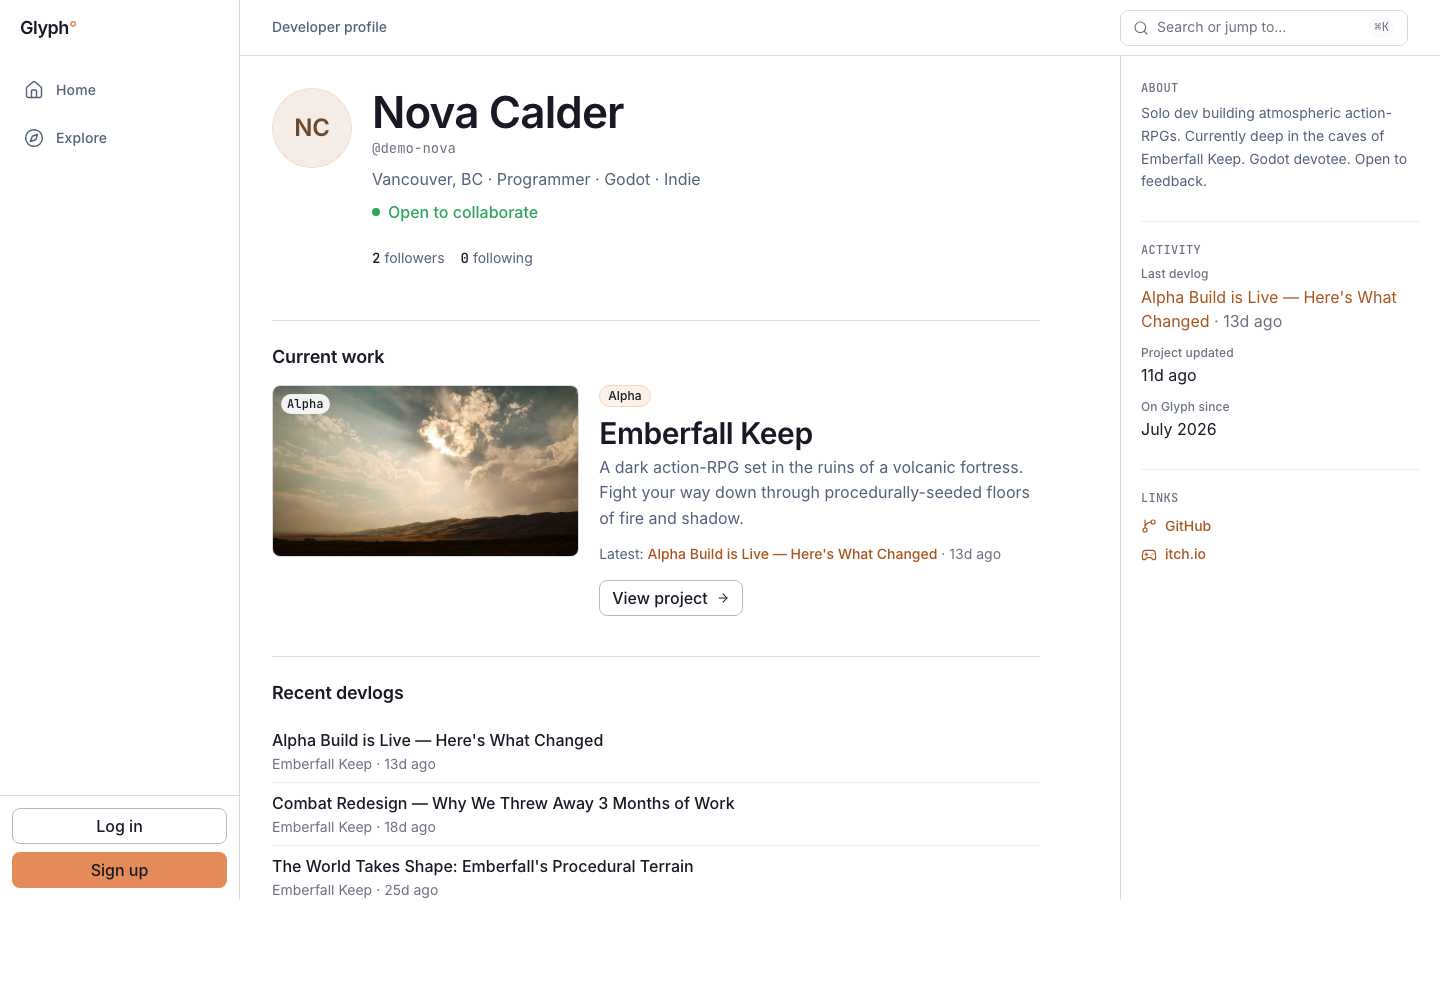
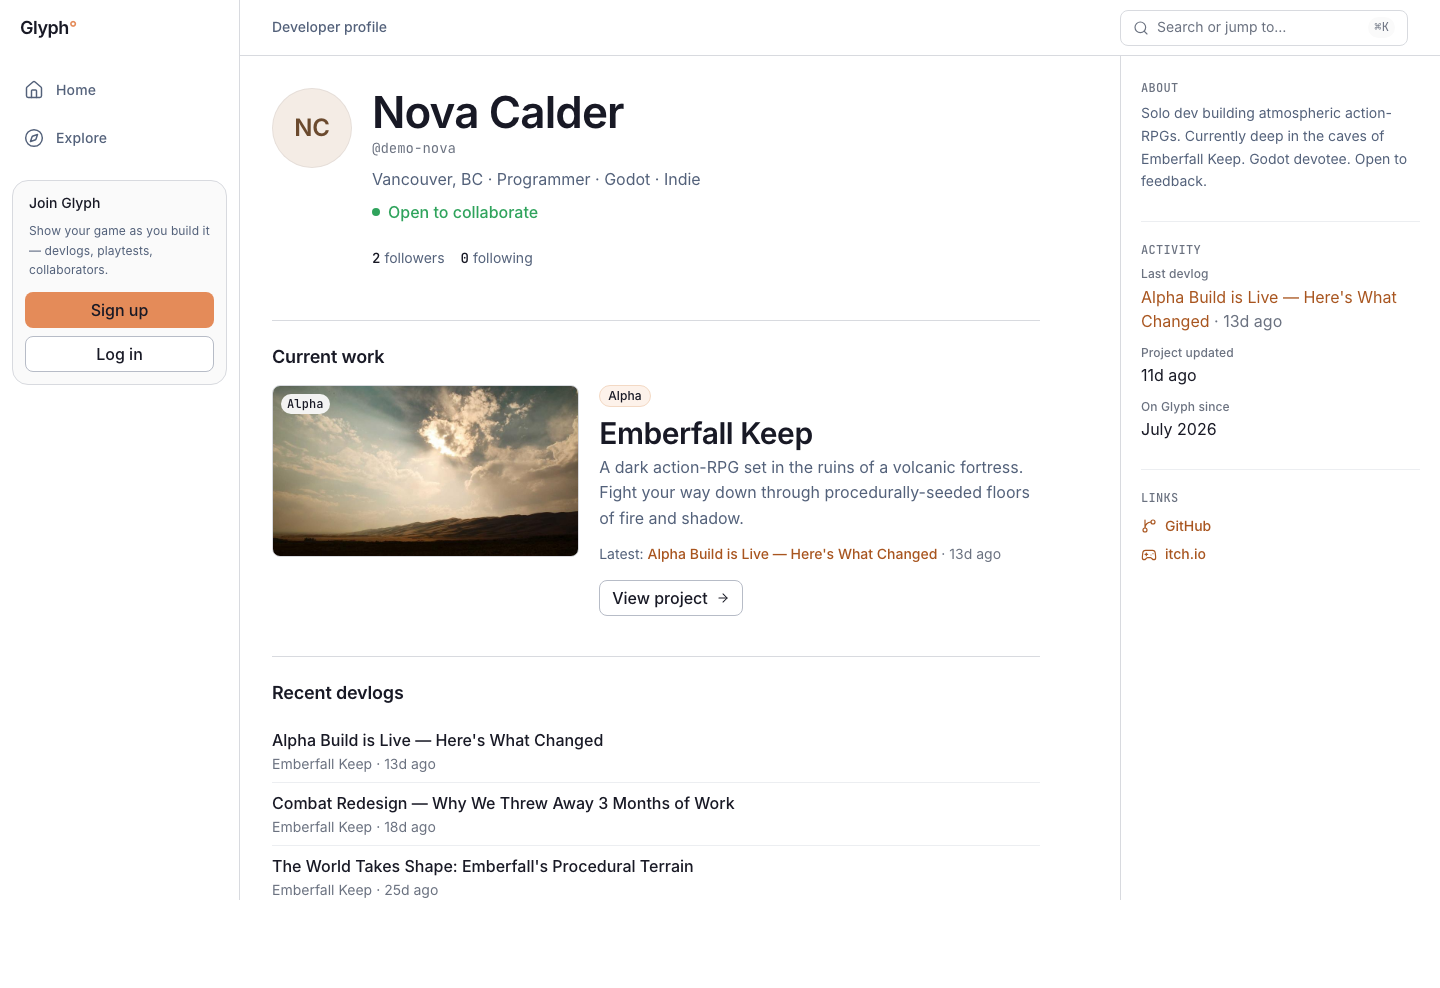
Canonical-four iteration 3: resolve left-rail void, coverless band metadata
Acts on the round-3 visual re-review (Project pair passed; the other three failed
only on composition — an unresolved-vertical-emptiness / layout-termination issue,
not taste).

- Global shell rail: nav and account no longer split across the full rail height.
  For a signed-out visitor (only two nav links) the bottom-pinned auth block left a
  ~450px mid-column void that read as unfinished on every desktop view. The auth
  block is now a grouped "Join Glyph" card directly under the nav — value line plus
  Sign up / Log in — so empty space pools once at the foot instead of splitting the
  column. Signed-in keeps the account pinned to the foot (its rail is full).
- Coverless project hero band now prints engine · genre, so two coverless games no
  longer look near-identical and the band carries more of its own weight.

Recaptured all 25 canonical screenshots.

Changed region(s): [[0.0, 0.1822, 0.1562, 0.3644], [0.0, 0.8198, 0.1562, 0.9109]]

diff --git a/components/shell/ShellNav.tsx b/components/shell/ShellNav.tsx
@@ -124,7 +124,10 @@ export function Rail({ user }: { user: ShellUser | null }) {
       <div className="flex h-14 items-center justify-center px-3 lg:justify-start lg:px-5">
         <Link href={user ? '/feed' : '/'} className="text-h3 font-semibold tracking-tight text-fg">{BRAND}</Link>
       </div>
-      <nav aria-label="Primary" className="flex-1 space-y-1 overflow-y-auto p-2 lg:p-3">
+      {/* Nav and account sit together under the brand; empty space pools once at the foot of the
+          rail instead of splitting into a mid-column void. For a signed-out visitor the rail is
+          only two links, so a bottom-pinned auth block left a large dead gap. */}
+      <nav aria-label="Primary" className="space-y-1 overflow-y-auto p-2 lg:p-3">
         {user ? (
           <>
             <RailLink href="/feed" label="Home" Icon={Home} active={g === 'home'} />
@@ -146,16 +149,18 @@ export function Rail({ user }: { user: ShellUser | null }) {
           </>
         )}
       </nav>
-      <div className="border-t border-line p-2 lg:p-3">
-        {user ? (
+      {user ? (
+        <div className="mt-auto border-t border-line p-2 lg:p-3">
           <MeMenu user={user} active={g === 'me'} />
-        ) : (
-          <div className="flex flex-col gap-2">
-            <Button asChild variant="secondary" size="sm" className="w-full px-2"><Link href="/login">Log in</Link></Button>
-            <Button asChild variant="primary" size="sm" className="w-full px-2"><Link href="/signup">Sign up</Link></Button>
-          </div>
-        )}
-      </div>
+        </div>
+      ) : (
+        <div className="mx-2 mt-2 flex flex-col gap-2 rounded-panel border border-line bg-surface-muted p-3 lg:mx-3">
+          <p className="px-1 text-small font-medium text-fg">Join Glyph</p>
+          <p className="px-1 text-micro leading-relaxed text-fg-secondary">Show your game as you build it — devlogs, playtests, collaborators.</p>
+          <Button asChild variant="primary" size="sm" className="mt-1 w-full px-2"><Link href="/signup">Sign up</Link></Button>
+          <Button asChild variant="secondary" size="sm" className="w-full px-2"><Link href="/login">Log in</Link></Button>
+        </div>
+      )}
     </aside>
   )
 }

diff --git a/app/p/[username]/[project-slug]/page.tsx b/app/p/[username]/[project-slug]/page.tsx
@@ -317,6 +317,9 @@ export default async function PublicProjectPage({
               {isOwner && project.visibility !== 'public' && <Badge tone="warning">{project.visibility === 'private' ? 'Private — only you can see this' : 'Unlisted — reachable by link only'}</Badge>}
             </div>
             <h1 className="relative text-display font-semibold tracking-[-0.02em] [overflow-wrap:anywhere]" style={{ color: heroTint.ink }}>{project.title}</h1>
+            {[engine, project.genre].some(Boolean) && (
+              <p className="relative mt-2 font-mono text-small" style={{ color: heroTint.ink, opacity: 0.72 }}>{[engine, project.genre].filter(Boolean).join(' · ')}</p>
+            )}
             {project.short_description && <p className="relative mt-2 max-w-prose text-h3 font-normal [overflow-wrap:anywhere]" style={{ color: heroTint.ink, opacity: 0.82 }}>{project.short_description}</p>}
             <div className="relative mt-5 flex flex-wrap items-center gap-x-4 gap-y-3">
               <Link href={`/dev/${username}`} className="inline-flex min-h-11 items-center gap-2 text-small font-medium hover:underline" style={{ color: heroTint.ink }}><Avatar name={ownerName} src={profile.avatar_url} size="sm" /> {ownerName}</Link>
